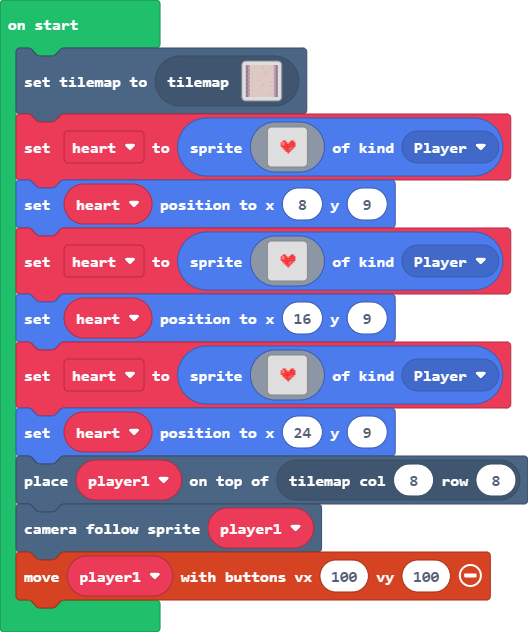
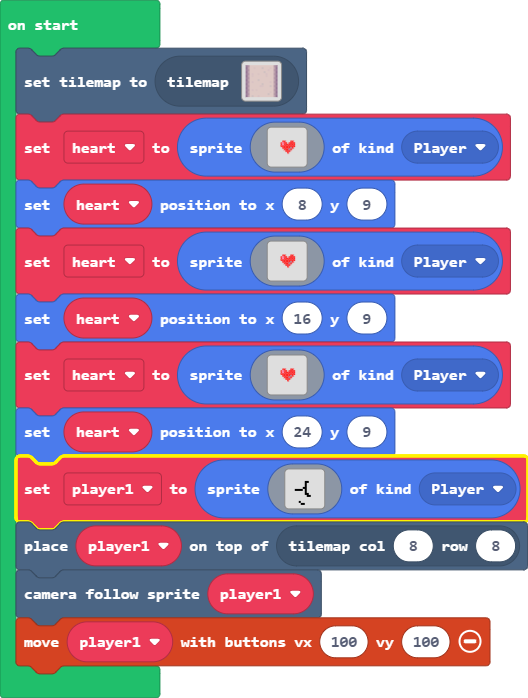
Update main.blocks, main.ts

diff --git a/main.ts b/main.ts
@@ -1,4 +1,3 @@
-let player1: Sprite = null
 tiles.setCurrentTilemap(tilemap`level`)
 let heart = sprites.create(assets.image`heart`, SpriteKind.Player)
 heart.setPosition(8, 9)
@@ -6,6 +5,24 @@ heart = sprites.create(assets.image`heart`, SpriteKind.Player)
 heart.setPosition(16, 9)
 heart = sprites.create(assets.image`heart`, SpriteKind.Player)
 heart.setPosition(24, 9)
+let player1 = sprites.create(img`
+    . . . . . . . . . . . . . . . . 
+    . . . . . . . . . . . . . . . . 
+    . . . . . . . . . . . . . . . . 
+    . . . . . . . . . . . . . . . . 
+    . . . . . . . . f f . . . . . . 
+    . . . . . . . . f . . . . . . . 
+    . . . . . . . . f . . . . . . . 
+    . . . . . . . f f . . . . . . . 
+    . . . f f f f . f . . . . . . . 
+    . . . . . . . . f . . . . . . . 
+    . . . . . . . . f f . . . . . . 
+    . . . . . . . . . f f . . . . . 
+    . . . . . . . . . . . . . . . . 
+    . . . . . . . . . . . . . . . . 
+    . . . . . f . . . . . . . . . . 
+    . . . . . . f f . . . . . . . . 
+    `, SpriteKind.Player)
 tiles.placeOnTile(player1, tiles.getTileLocation(8, 8))
 scene.cameraFollowSprite(player1)
 controller.moveSprite(player1, 100, 100)
